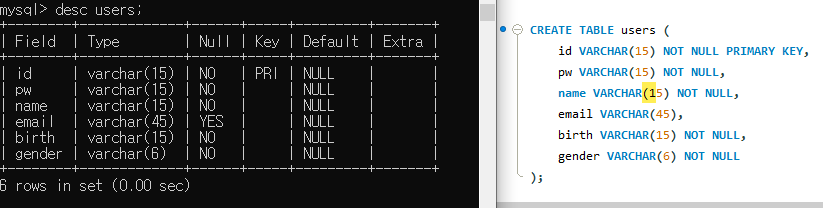
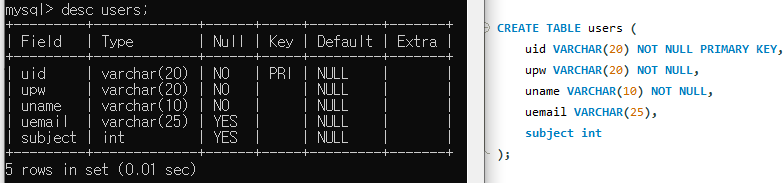
SDK 210820 15:18

Changed region(s): [[0.0, 0.0, 1.0, 1.0], [0.6735, 0.7104, 0.9184, 0.7923]]

diff --git a/OurJspProject/src/kr/sc/ictjsp/users/model/usersDAO.java b/OurJspProject/src/kr/sc/ictjsp/users/model/usersDAO.java
@@ -50,16 +50,15 @@ public class usersDAO {
 			
 			con = ds.getConnection();
 
-			String sql = "INSERT INTO users VALUES(?, ?, ?, ?, ?, ?)";
+			String sql = "INSERT INTO users VALUES(?, ?, ?, ?, ?)";
 			
 			pstmt = con.prepareStatement(sql);
-			pstmt.setString(1, user.getId());
-			pstmt.setString(2, user.getPw());
-			pstmt.setString(3, user.getName());
-			pstmt.setString(4, user.getEmail());
-			pstmt.setString(5, user.getBirth());
-			pstmt.setString(6, user.getGender());
-			
+			pstmt.setString(1, user.getUid());
+			pstmt.setString(2, user.getUpw());
+			pstmt.setString(3, user.getUname());
+			pstmt.setString(4, user.getUemail());
+			pstmt.setInt(5, user.getSubject());
+
 			pstmt.executeUpdate();
 						
 			result = JOIN_SUCCESS;
@@ -93,7 +92,7 @@ public class usersDAO {
 			String sql = "SELECT * FROM users WHERE id = ?";
 			
 			pstmt = con.prepareStatement(sql);
-			pstmt.setString(1, user.getId());
+			pstmt.setString(1, user.getUid());
 			
 			rs = pstmt.executeQuery();
 			
@@ -102,8 +101,8 @@ public class usersDAO {
 				String dbId = rs.getString("id");
 				String dbPw = rs.getString("pw");
 				
-				if(user.getId().equals(dbId) &&
-						user.getPw().equals(dbPw)) {
+				if(user.getUid().equals(dbId) &&
+						user.getUpw().equals(dbPw)) {
 					return LOGIN_SUCCESS;
 				} else {
 					return LOGIN_FAIL;
@@ -136,13 +135,13 @@ public class usersDAO {
 		PreparedStatement pstmt = null;
 		
 		try {
-			if(users.getPw().equals(dpw)) {
+			if(users.getUpw().equals(dpw)) {
 				
 				con = ds.getConnection();
 				String sql = "DELETE from project WHERE id = ?";
 				
 				pstmt = con.prepareStatement(sql);
-				pstmt.setString(1, users.getId());
+				pstmt.setString(1, users.getUid());
 				pstmt.executeUpdate();
 				
 				return DELETE_SUCCESS;
@@ -177,9 +176,9 @@ public class usersDAO {
 			String sql = "UPDATE users set pw = ?, email = ? WHERE id = ?";
 			
 			pstmt = con.prepareStatement(sql);
-			pstmt.setString(1, users.getPw());
-			pstmt.setString(2, users.getEmail());
-			pstmt.setString(3, users.getId());
+			pstmt.setString(1, users.getUpw());
+			pstmt.setString(2, users.getUemail());
+			pstmt.setString(3, users.getUid());
 			
 			pstmt.executeUpdate();
 			return UPDATE_SUCCESS;
@@ -213,14 +212,14 @@ public class usersDAO {
 			String sql = "SELECT id FROM users WHERE name = ? and email = ?";
 			
 			pstmt = con.prepareStatement(sql);
-			pstmt.setString(1, users.getName());
-			pstmt.setString(2, users.getEmail());
+			pstmt.setString(1, users.getUname());
+			pstmt.setString(2, users.getUemail());
 			
 			rs = pstmt.executeQuery();
 			
 			if(rs.next()) {
 					
-				getId.setId(rs.getString("id"));
+				getId.setUid(rs.getString("id"));
 			}
 		} catch (SQLException e) {
 			e.printStackTrace();
@@ -252,9 +251,9 @@ public class usersDAO {
 			String sql = "UPDATE users set pw = ? WHERE id = ? and name = ?";
 			
 			pstmt = con.prepareStatement(sql);
-			pstmt.setString(1, users.getPw());
-			pstmt.setString(2, users.getId());
-			pstmt.setString(3, users.getName());
+			pstmt.setString(1, users.getUpw());
+			pstmt.setString(2, users.getUid());
+			pstmt.setString(3, users.getUname());
 			
 			pstmt.executeUpdate();
 			return PwChange_SUCCESS;
@@ -289,17 +288,15 @@ public class usersDAO {
 			String sql = "SELECT * FROM users WHERE id = ?";
 			
 			pstmt = con.prepareStatement(sql);
-			pstmt.setString(1, users.getId());
+			pstmt.setString(1, users.getUid());
 			
 			rs = pstmt.executeQuery();
 			
 			if(rs.next()) {
-				usersData.setId("id");
-				usersData.setPw("pw");
-				usersData.setName("name");
-				usersData.setEmail("email");
-				usersData.setBirth("birth");
-				usersData.setGender("gender");
+				usersData.setUid("id");
+				usersData.setUpw("pw");
+				usersData.setUname("name");
+				usersData.setUemail("email");
 			}
 		} catch (SQLException e) {
 			e.printStackTrace();

diff --git a/OurJspProject/src/kr/sc/ictjsp/users/model/usersVO.java b/OurJspProject/src/kr/sc/ictjsp/users/model/usersVO.java
@@ -2,80 +2,71 @@ package kr.sc.ictjsp.users.model;
 
 public class usersVO {
 	
-	private String id;
-	private String pw;
-	private String name;
-	private String email;
-	private String birth;
-	private String gender;
+	private String uid;
+	private String upw;
+	private String uname;
+	private String uemail;
+	private int subject;
 	
 	public usersVO() {
 		
 	}
 	
-	public usersVO(String id, String pw, String name, 
-				String email, String birth, String gender) {
+	public usersVO(String uid, String upw, String uname, 
+				String uemail, int subject) {
 		super();
-		this.id = id;
-		this.pw = pw;
-		this.name = name;
-		this.email = email;
-		this.birth = birth;
-		this.gender = gender;
+		this.uid = uid;
+		this.upw = upw;
+		this.uname = uname;
+		this.uemail = uemail;
+		this.subject = subject;
 	}
 
-	public String getId() {
-		return id;
-	}
 	
-	public void setId(String id) {
-		this.id = id;
+	public String getUid() {
+		return uid;
 	}
 
-	public String getPw() {
-		return pw;
+	public void setUid(String uid) {
+		this.uid = uid;
 	}
 
-	public void setPw(String pw) {
-		this.pw = pw;
+	public String getUpw() {
+		return upw;
 	}
 
-	public String getName() {
-		return name;
+	public void setUpw(String upw) {
+		this.upw = upw;
 	}
 
-	public void setName(String name) {
-		this.name = name;
+	public String getUname() {
+		return uname;
 	}
 
-	public String getEmail() {
-		return email;
+	public void setUname(String uname) {
+		this.uname = uname;
 	}
 
-	public void setEmail(String email) {
-		this.email = email;
+	public String getUemail() {
+		return uemail;
 	}
 
-	public String getBirth() {
-		return birth;
+	public void setUemail(String uemail) {
+		this.uemail = uemail;
 	}
 
-	public void setBirth(String birth) {
-		this.birth = birth;
+	public int getSubject() {
+		return subject;
 	}
 
-	public String getGender() {
-		return gender;
+	public void setSubject(int subject) {
+		this.subject = subject;
 	}
 
-	public void setGender(String gender) {
-		this.gender = gender;
-	}
-	
 	@Override
 	public String toString() {
-		return "UsersVO [id=" + id + ", pw=" + pw + ", name=" + name + 
-				", email=" + email + ", birth=" + birth + ", gender=" + gender + "]";
+		return "UsersVO [uid=" + uid + ", upw=" + upw + ", uname=" + uname + 
+				", uemail=" + uemail + ", subject" + subject + "]";
 	}
 
 }
